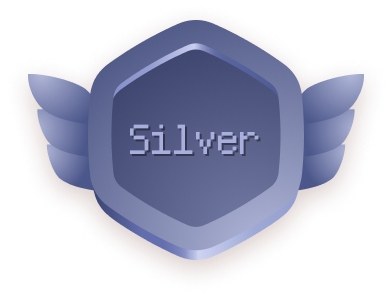
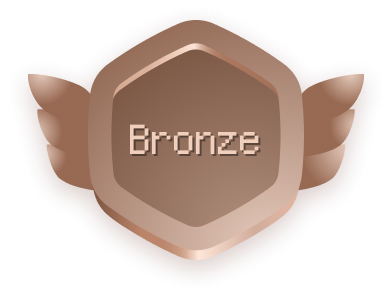
Revert "refactor: badge index;"
This reverts commit 1490d54aefb837c27e0ab19fbdbd5dda5c663fbb.

diff --git a/app/components/modals/CheckRulesModal.vue b/app/components/modals/CheckRulesModal.vue
@@ -1,13 +1,13 @@
 <script setup lang="ts">
 const { t } = useI18n();
 const rows = [
-  { level: 0, tag: 'iron', teamTotalStaking: '0 <= N < 10000', powerPackageCalculation: '0' },
-  { level: 1, tag: 'bronze', teamTotalStaking: '10000 <= N < 20000', powerPackageCalculation: '1' },
-  { level: 2, tag: 'silver', teamTotalStaking: '20000 <= N < 70000', powerPackageCalculation: '1.1' },
-  { level: 3, tag: 'gold', teamTotalStaking: '70000 <= N < 150000', powerPackageCalculation: '1.2' },
-  { level: 4, tag: 'platinum', teamTotalStaking: '150000 <= N < 300000', powerPackageCalculation: '1.3' },
-  { level: 5, tag: 'diamond', teamTotalStaking: '300000 <= N < 500000', powerPackageCalculation: '1.4' },
-  { level: 6, tag: 'legend', teamTotalStaking: 'N >= 500000', powerPackageCalculation: '1.5' },
+  { level: 1, tag: 'iron', teamTotalStaking: '0 <= N < 10000', powerPackageCalculation: '0' },
+  { level: 2, tag: 'bronze', teamTotalStaking: '10000 <= N < 20000', powerPackageCalculation: '1' },
+  { level: 3, tag: 'silver', teamTotalStaking: '20000 <= N < 70000', powerPackageCalculation: '1.1' },
+  { level: 4, tag: 'gold', teamTotalStaking: '70000 <= N < 150000', powerPackageCalculation: '1.2' },
+  { level: 5, tag: 'platinum', teamTotalStaking: '150000 <= N < 300000', powerPackageCalculation: '1.3' },
+  { level: 6, tag: 'diamond', teamTotalStaking: '300000 <= N < 500000', powerPackageCalculation: '1.4' },
+  { level: 7, tag: 'legend', teamTotalStaking: 'N >= 500000', powerPackageCalculation: '1.5' },
 ];
 </script>
 

diff --git a/app/blocks/dashboard/TeamStat.vue b/app/blocks/dashboard/TeamStat.vue
@@ -81,7 +81,7 @@ const { data } = useAsyncData(
         />
         <NuxtPicture
           class="absolute -top-[57px]"
-          :src="`images/badge_rank_${data?.level ?? 0}.png`"
+          :src="`images/badge_rank_${data?.level ?? 1}.png`"
           densities="1x 2x"
           height="148"
           width="196"
